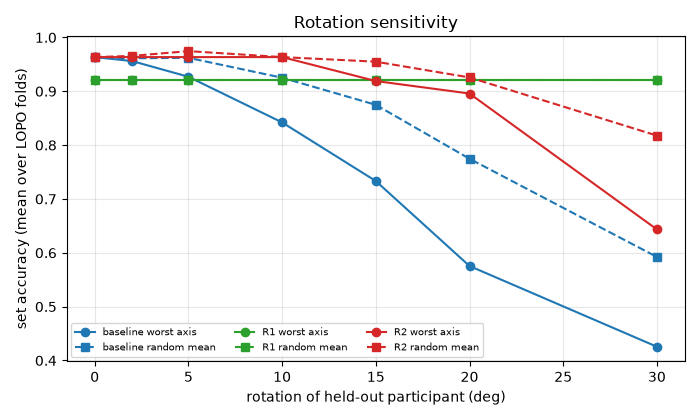
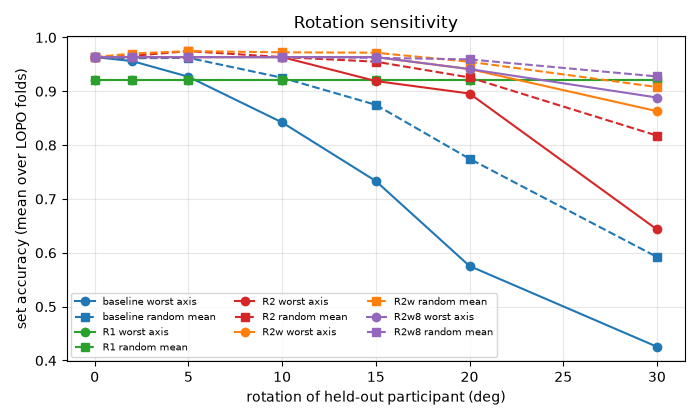
Regenerate Phase 1 rotation-sensitivity report with R2w and R2w8

Changed region(s): [[0.09, 0.681, 0.72, 0.8357], [0.12, 0.0929, 0.96, 0.2786]]

diff --git a/docs/reports/phase1-rotation-sensitivity.md b/docs/reports/phase1-rotation-sensitivity.md
@@ -1,9 +1,9 @@
 # Phase 1: rotation sensitivity (S2a)
 
 > Generated by `python -m workout_ml.analysis.rotation_sensitivity`; do not edit.
-> Code 8763938b (dirty=True), data md5 45732a83275a4045dd1b7b5a8c229a14.dir, runtime 319 s.
+> Code 225ecf27 (dirty=True), data md5 45732a83275a4045dd1b7b5a8c229a14.dir, computed this invocation: R2w, R2w8 (438 s); other variants reused from the cached per-fold results of the same code and data.
 
-The held-out participant's acc and gyro columns are rotated by the same R before feature engineering. Models are trained on unrotated data (R2: the original training sets plus 4 copies under random rotations, angle U[0, 15] deg, random axis, one R per set copy). Metrics are means over the 5 LOPO folds. 'Worst axis' = the signed axis (+-x, +-y, +-z) with the lowest set accuracy at that theta; 'rand' = mean over 10 seeded random axes. 'Kabsch' is the equivalent gravity residual 2 sin(theta/2) in g. 'conf' is the pooled bench->OHP + OHP->bench window rate over bench and OHP windows.
+The held-out participant's acc and gyro columns are rotated by the same R before feature engineering. Models are trained on unrotated data, except the augmented variants. Augmentation method: the training set is the original (unrotated) training sets PLUS K rotated copies of them (not K copies only); each copy of each set gets its own random R (uniform random axis, angle uniform in [0, max]), applied to acc and gyro before feature engineering; same seed for every augmented variant. R2: K=4, max 15 deg; R2w: K=4, max 30 deg; R2w8: K=8, max 30 deg. Metrics are means over the 5 LOPO folds. 'Worst axis' = the signed axis (+-x, +-y, +-z) with the lowest set accuracy at that theta; 'rand' = mean over 10 seeded random axes. 'Kabsch' is the equivalent gravity residual 2 sin(theta/2) in g. 'conf' is the pooled bench->OHP + OHP->bench window rate over bench and OHP windows.
 
 ## theta_tol (section 7.3 definition)
 
@@ -14,6 +14,8 @@ Largest theta where, over the worst axis, set accuracy drops <= 2 pp and bench a
 | baseline | 2 | 2 |
 | R1 | 30 | 30 |
 | R2 | 5 | 5 |
+| R2w | 10 | 10 |
+| R2w8 | 10 | 10 |
 
 ## Metrics at theta = 0
 
@@ -22,6 +24,8 @@ Largest theta where, over the worst axis, set accuracy drops <= 2 pp and bench a
 | baseline | 0.963 | 0.957 | 0.858 | 0.976 | 0.052 |
 | R1 | 0.921 | 0.848 | 0.846 | 0.838 | 0.057 |
 | R2 | 0.963 | 0.941 | 0.844 | 0.948 | 0.061 |
+| R2w | 0.963 | 0.952 | 0.845 | 0.970 | 0.061 |
+| R2w8 | 0.963 | 0.952 | 0.850 | 0.982 | 0.057 |
 
 ## baseline
 
@@ -58,5 +62,29 @@ Largest theta where, over the worst axis, set accuracy drops <= 2 pp and bench a
 | 15 | 0.261 | -y | 0.919 | 0.869 | 0.915 | 0.058 | 0.826 | 0.766 | 0.955 | 0.846 | 0.893 | 0.082 |
 | 20 | 0.347 | +x | 0.896 | 0.831 | 0.679 | 0.125 | 0.822 | 0.679 | 0.926 | 0.852 | 0.854 | 0.093 |
 | 30 | 0.518 | +x | 0.643 | 0.310 | 0.531 | 0.094 | 0.310 | 0.531 | 0.818 | 0.725 | 0.725 | 0.104 |
+
+## R2w
+
+| theta | Kabsch (g) | worst axis | set acc | bench | OHP | conf | min bench (signed) | min OHP (signed) | rand set acc | rand bench | rand OHP | rand conf |
+|---|---|---|---|---|---|---|---|---|---|---|---|---|
+| 0 | 0.000 | none | 0.963 | 0.845 | 0.970 | 0.061 | 0.845 | 0.970 | 0.963 | 0.845 | 0.970 | 0.061 |
+| 2 | 0.035 | +x | 0.963 | 0.845 | 0.970 | 0.061 | 0.844 | 0.969 | 0.970 | 0.846 | 0.971 | 0.060 |
+| 5 | 0.087 | +x | 0.963 | 0.847 | 0.968 | 0.062 | 0.841 | 0.967 | 0.975 | 0.848 | 0.971 | 0.060 |
+| 10 | 0.174 | +y | 0.963 | 0.845 | 0.976 | 0.060 | 0.841 | 0.951 | 0.972 | 0.846 | 0.975 | 0.060 |
+| 15 | 0.261 | +x | 0.963 | 0.845 | 0.906 | 0.090 | 0.838 | 0.906 | 0.972 | 0.849 | 0.950 | 0.071 |
+| 20 | 0.347 | +x | 0.941 | 0.841 | 0.847 | 0.119 | 0.836 | 0.847 | 0.955 | 0.855 | 0.927 | 0.082 |
+| 30 | 0.518 | +x | 0.863 | 0.723 | 0.704 | 0.138 | 0.723 | 0.704 | 0.908 | 0.822 | 0.847 | 0.100 |
+
+## R2w8
+
+| theta | Kabsch (g) | worst axis | set acc | bench | OHP | conf | min bench (signed) | min OHP (signed) | rand set acc | rand bench | rand OHP | rand conf |
+|---|---|---|---|---|---|---|---|---|---|---|---|---|
+| 0 | 0.000 | none | 0.963 | 0.850 | 0.982 | 0.057 | 0.850 | 0.982 | 0.963 | 0.850 | 0.982 | 0.057 |
+| 2 | 0.035 | +x | 0.963 | 0.851 | 0.981 | 0.058 | 0.849 | 0.980 | 0.963 | 0.851 | 0.982 | 0.057 |
+| 5 | 0.087 | +x | 0.963 | 0.851 | 0.979 | 0.060 | 0.846 | 0.978 | 0.963 | 0.851 | 0.980 | 0.057 |
+| 10 | 0.174 | +x | 0.963 | 0.845 | 0.962 | 0.066 | 0.844 | 0.962 | 0.963 | 0.848 | 0.979 | 0.059 |
+| 15 | 0.261 | +x | 0.963 | 0.838 | 0.929 | 0.079 | 0.838 | 0.929 | 0.962 | 0.845 | 0.967 | 0.065 |
+| 20 | 0.347 | +z | 0.941 | 0.841 | 0.953 | 0.079 | 0.819 | 0.887 | 0.959 | 0.850 | 0.951 | 0.069 |
+| 30 | 0.518 | +x | 0.888 | 0.718 | 0.761 | 0.096 | 0.718 | 0.761 | 0.928 | 0.824 | 0.884 | 0.074 |
 
 ![set accuracy vs rotation](phase1-rotation-sensitivity.png)
